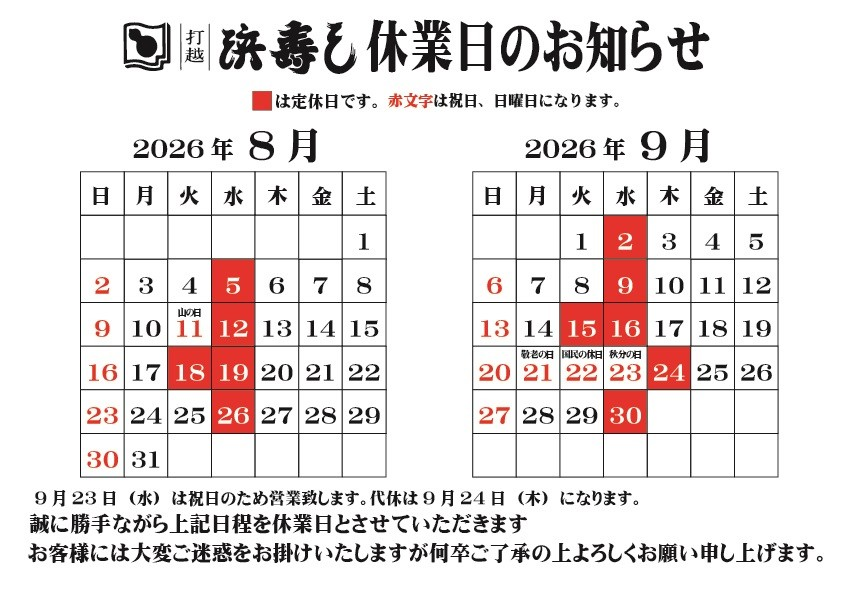
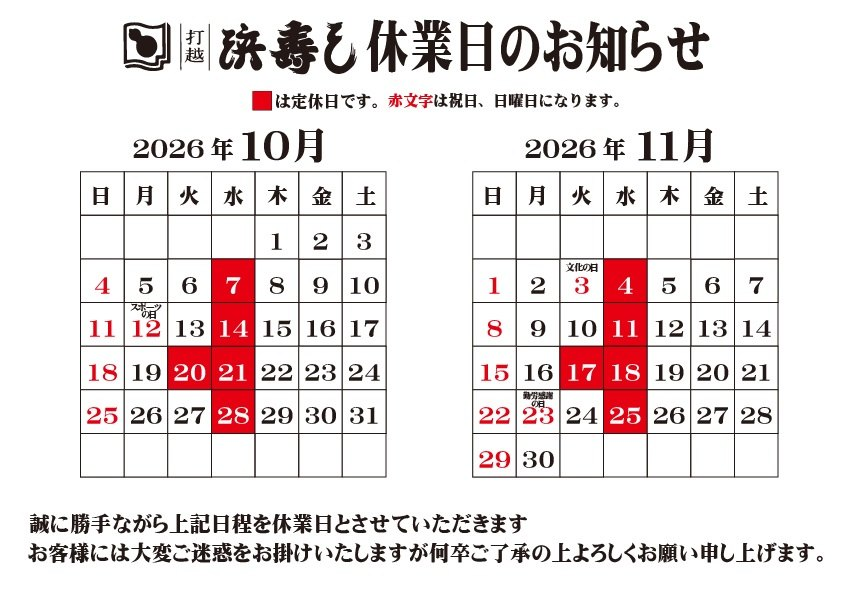
Add files via upload

diff --git a/README.md b/README.md
@@ -1,0 +1,13 @@
+# 10/6 更新分のアップロード手順
+
+1. GitHub の `gucci8916/hamazushi` のトップで「Add file」→「Upload files」
+2. このフォルダの **中身をすべて**（html 5つ・sitemap.xml・`en` フォルダ・`images` フォルダ）まとめてドラッグ＆ドロップ
+   - `images` の中の `webp` フォルダも一緒に入ります（季節限定の軽量画像）
+   - 同じ名前のファイルは上書きされます。ほかの写真は消えません
+3. 「Commit changes」→ 緑の✓が付くまで待つ
+
+## 今回の変更
+- 季節限定：いろどり御膳（10/10〜11/3）と10月限定の平日メニュー（彩寿3,300円・福寿2,500円）に差し替え（日本語・英語）
+- 休業日カレンダー：10月・11月に差し替え（日本語・英語）
+- お知らせ：新しい季節限定とカレンダーの2件を追加し、古い2件を削除
+- 価格改定：茶碗蒸し 550円→650円、天ぷら（1人前）1,450円→1,500円（日本語・英語）
